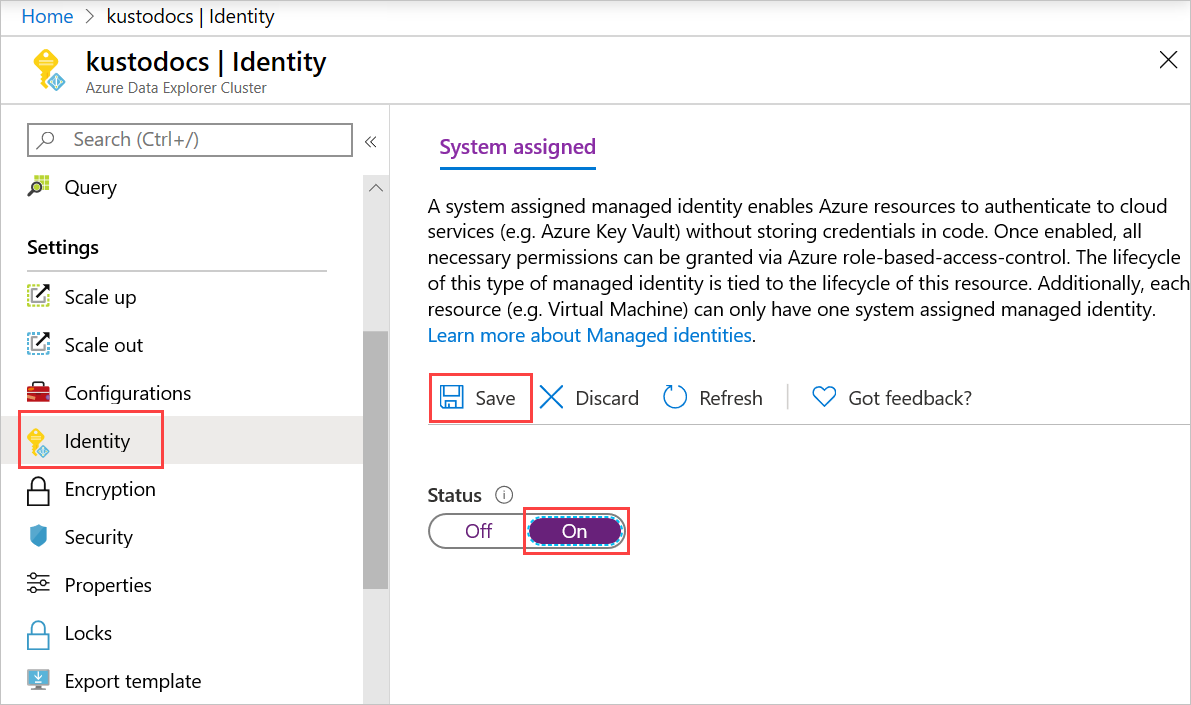
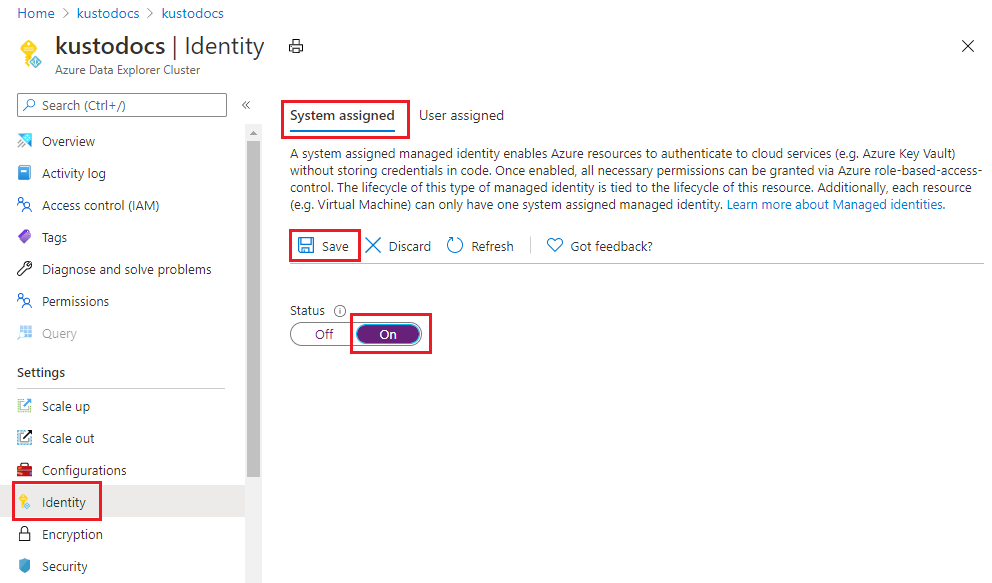
Support user assigned identities

Changed region(s): [[0.0, 0.0, 1.0, 1.0], [0.9688, 0.0617, 1.0, 0.0926]]

diff --git a/data-explorer/managed-identities.md b/data-explorer/managed-identities.md
@@ -11,14 +11,14 @@ ms.date: 03/12/2020
 
 # Configure managed identities for your Azure Data Explorer cluster
 
-A [managed identity from Azure Active Directory](/azure/active-directory/managed-identities-azure-resources/overview) allows your cluster to easily access other AAD-protected resources such as Azure Key Vault. The identity is managed by the Azure platform and doesn't require you to provision or rotate any secrets. This article shows you how to create a managed identity for Azure Data Explorer clusters. Managed identity configuration is currently supported only to [enable customer-managed keys for your cluster](security.md#customer-managed-keys-with-azure-key-vault).
+A [managed identity from Azure Active Directory](/azure/active-directory/managed-identities-azure-resources/overview) allows your cluster to easily access other Azure AD-protected resources such as Azure Key Vault. The identity is managed by the Azure platform and doesn't require you to provision or rotate any secrets. This article shows you how to create a managed identity for Azure Data Explorer clusters. Managed identity configuration is currently supported only to [enable customer-managed keys for your cluster](security.md#customer-managed-keys-with-azure-key-vault).
 
 > [!Note]
 > Managed identities for Azure Data Explorer won't behave as expected if your Azure Data Explorer cluster is migrated across subscriptions or tenants. The app will need to obtain a new identity, which can be done by [disabling](#disable-a-system-assigned-identity) and [re-enabling](#add-a-system-assigned-identity) the feature. Access policies of downstream resources will also need to be updated to use the new identity.
 
 ## Add a system-assigned identity
-                                                                                                    
-Assign a system-assigned identity that is tied to your cluster, and is deleted if your cluster is deleted. A cluster can only have one system-assigned identity. Creating a cluster with a system-assigned identity requires an additional property to be set on the cluster. The system-assigned identity is added using C#, ARM templates, or the Azure portal as detailed below.
+
+Assign a system-assigned identity that is tied to your cluster, and is deleted if your cluster is deleted. A cluster can only have one system-assigned identity. Creating a cluster with a system-assigned identity requires an additional property to be set on the cluster. The system-assigned identity is added using C#, Resource Manager template, or the Azure portal as detailed below.
 
 # [Azure portal](#tab/portal)
 
@@ -30,7 +30,7 @@ Assign a system-assigned identity that is tied to your cluster, and is deleted i
 
 1. [Create an Azure Data Explorer cluster](create-cluster-database-portal.md#create-a-cluster) 
 1. In the **Security** tab > **System assigned identity**, select **On**. To remove the system assigned identity, select **Off**.
-2. Select **Next:Tags>** or **Review + create** to create the cluster.
+1. Select **Next : Tags>** or **Review + create** to create the cluster.
 
     ![Add system assigned identity to new cluster](media/managed-identities/system-assigned-identity-new-cluster.png)
 
@@ -45,9 +45,10 @@ Assign a system-assigned identity that is tied to your cluster, and is deleted i
 
     ![Add system assigned identity](media/managed-identities/turn-system-assigned-identity-on.png)
 
-1. After a few minutes, the screen shows: 
-  * **Object ID** - used for customer managed keys 
-  * **Role assignments** - click link to assign relevant roles
+1. After a few minutes, the screen shows:
+
+* **Object ID** - used for customer-managed keys
+* **Role assignments** - click link to assign relevant roles
 
     ![System assigned identity on](media/managed-identities/system-assigned-identity-on.png)
 
@@ -75,14 +76,14 @@ To set up a managed identity using the Azure Data Explorer C# client:
     var authenticationContext = new AuthenticationContext($"https://login.windows.net/{tenantId}");
     var credential = new ClientCredential(clientId, clientSecret);
     var result = await authenticationContext.AcquireTokenAsync(resource: "https://management.core.windows.net/", clientCredential: credential);
-    
+
     var credentials = new TokenCredentials(result.AccessToken, result.AccessTokenType);
-    
+
     var kustoManagementClient = new KustoManagementClient(credentials)
     {
         SubscriptionId = subscriptionId
     };
-                                                                                                    
+
     var resourceGroupName = "testrg";
     var clusterName = "mykustocluster";
     var location = "Central US";
@@ -94,7 +95,7 @@ To set up a managed identity using the Azure Data Explorer C# client:
     var cluster = new Cluster(location, sku, identity: identity);
     await kustoManagementClient.Clusters.CreateOrUpdateAsync(resourceGroupName, clusterName, cluster);
     ```
-    
+
 2. Run the following command to check if your cluster was successfully created or updated with an identity:
 
     ```csharp
@@ -108,21 +109,24 @@ To set up a managed identity using the Azure Data Explorer C# client:
     var tenantId = cluster.Identity.TenantId;
     ```
 
-`PrincipalId` and `TenantId` are replaced with GUIDs. The `TenantId` property identifies the AAD tenant to which the identity belongs. The `PrincipalId` is a unique identifier for the cluster's new identity. Within AAD, the service principal has the same name that you gave to your App Service or Azure Functions instance.
+`PrincipalId` and `TenantId` are replaced with GUIDs. The `TenantId` property identifies the Azure AD tenant to which the identity belongs. The `PrincipalId` is a unique identifier for the cluster's new identity. Within Azure AD, the service principal has the same name that you gave to your App Service or Azure Functions instance.
 
-# [ARM template](#tab/arm)
+# [Resource Manager template](#tab/arm)
 
 ### Add a system-assigned identity using an Azure Resource Manager template
 
 An Azure Resource Manager template can be used to automate deployment of your Azure resources. To learn more about deploying to Azure Data Explorer, see [Create an Azure Data Explorer cluster and database by using an Azure Resource Manager template](create-cluster-database-resource-manager.md).
 
-Adding the system-assigned type tells Azure to create and manage the identity for your cluster. Any resource of type `Microsoft.Kusto/clusters` can be created with an identity by including the following property in the resource definition: 
+Adding the system-assigned type tells Azure to create and manage the identity for your cluster. Any resource of type `Microsoft.Kusto/clusters` can be created with an identity by including the following property in the resource definition:
 
 ```json
 "identity": {
     "type": "SystemAssigned"
-}    
+}
 ```
+
+> [!NOTE]
+> A cluster can have both system-assigned and user-assigned identities at the same time. In this case, the `type` property would be `SystemAssigned,UserAssigned`
 
 For example:
 
@@ -155,13 +159,13 @@ When the cluster is created, it has the following additional properties:
 }
 ```
 
-`<TENANTID>` and `<PRINCIPALID>` are replaced with GUIDs. The `TenantId` property identifies the AAD tenant to which the identity belongs. The `PrincipalId` is a unique identifier for the cluster's new identity. Within AAD, the service principal has the same name that you gave to your App Service or Azure Functions instance.
+`<TENANTID>` and `<PRINCIPALID>` are replaced with GUIDs. The `TenantId` property identifies the Azure AD tenant to which the identity belongs. The `PrincipalId` is a unique identifier for the cluster's new identity. Within Azure AD, the service principal has the same name that you gave to your App Service or Azure Functions instance.
 
 ---
 
 ## Disable a system-assigned identity
 
-Removing a system-assigned identity will also delete it from AAD. System-assigned identities are also automatically removed from AAD when the cluster resource is deleted. A system-assigned identity can be removed by disabling the feature.  The system-assigned identity is removed using C#, ARM templates, or the Azure portal as detailed below.
+Removing a system-assigned identity will also delete it from Azure AD. System-assigned identities are also automatically removed from Azure AD when the cluster resource is deleted. A system-assigned identity can be removed by disabling the feature.  The system-assigned identity is removed using C#, Resource Manager template, or the Azure portal as detailed below.
 
 # [Azure portal](#tab/portal)
 
@@ -188,7 +192,7 @@ var cluster = new Cluster(location, sku, identity: identity);
 await kustoManagementClient.Clusters.CreateOrUpdateAsync(resourceGroupName, clusterName, cluster);
 ```
 
-# [ARM template](#tab/arm)
+# [Resource Manager template](#tab/arm)
 
 ### Remove a system-assigned identity using an Azure Resource Manager template
 
@@ -200,11 +204,216 @@ Run the following to remove the system-assigned identity:
 }
 ```
 
+> [!NOTE]
+> If the cluster had both system-assigned and user-assigned identities at the same time, the `type` property would be `UserAssigned`
+
+---
+
+## Add a user-assigned identity
+
+Assign a user-assigned identity that is in an existing identity in Azure AD. A cluster can have more than one user-assigned identity. Creating a cluster with a user-assigned identity requires an additional property to be set on the cluster. The user-assigned identity is added using C#, Resource Manager template, or the Azure portal as detailed below.
+
+# [Azure portal](#tab/portal)
+
+### Add a user-assigned identity using the Azure portal
+
+1. Sign in to the [Azure portal](https://portal.azure.com/).
+
+#### Existing Azure Data Explorer cluster
+
+First, you'll need to create a user-assigned identity resource.
+
+1. Create a user-assigned managed identity resource according to [these instructions](/azure/active-directory/managed-identities-azure-resources/how-to-manage-ua-identity-portal.md#create-a-user-assigned-managed-identity).
+1. Open an existing Azure Data Explorer cluster.
+1. Select **Settings** > **Identity** in left pane of portal.
+1. Within the **User assigned** tab. Click **Add**.
+1. Search for the identity you created earlier and select it. Click **Add**.
+
+    ![Add user assigned identity](media/managed-identities/user-assigned-identity-select.png)
+
+# [C#](#tab/c-sharp)
+
+### Add a user-assigned identity using C#
+
+#### Prerequisites
+
+To set up a managed identity using the Azure Data Explorer C# client:
+
+* Install the [Azure Data Explorer (Kusto) NuGet package](https://www.nuget.org/packages/Microsoft.Azure.Management.Kusto/).
+* Install the [Microsoft.IdentityModel.Clients.ActiveDirectory NuGet package](https://www.nuget.org/packages/Microsoft.IdentityModel.Clients.ActiveDirectory/) for authentication.
+* [Create an Azure AD application](/azure/active-directory/develop/howto-create-service-principal-portal) and service principal that can access resources. You add role assignment at the subscription scope and get the required `Directory (tenant) ID`, `Application ID`, and `Client Secret`.
+
+#### Create or update your cluster
+
+1. Create or update your cluster using the `Identity` property:
+
+    ```csharp
+    var tenantId = "xxxxxxxx-xxxxx-xxxx-xxxx-xxxxxxxxx";//Directory (tenant) ID
+    var clientId = "xxxxxxxx-xxxxx-xxxx-xxxx-xxxxxxxxx";//Application ID
+    var clientSecret = "xxxxxxxxxxxxxx";//Client Secret
+    var subscriptionId = "xxxxxxxx-xxxxx-xxxx-xxxx-xxxxxxxxx";
+    var authenticationContext = new AuthenticationContext($"https://login.windows.net/{tenantId}");
+    var credential = new ClientCredential(clientId, clientSecret);
+    var result = await authenticationContext.AcquireTokenAsync(resource: "https://management.core.windows.net/", clientCredential: credential);
+
+    var credentials = new TokenCredentials(result.AccessToken, result.AccessTokenType);
+
+    var kustoManagementClient = new KustoManagementClient(credentials)
+    {
+        SubscriptionId = subscriptionId
+    };
+
+    var resourceGroupName = "testrg";
+    var clusterName = "mykustocluster";
+    var location = "Central US";
+    var skuName = "Standard_D13_v2";
+    var tier = "Standard";
+    var capacity = 5;
+    var sku = new AzureSku(skuName, tier, capacity);
+    var identityName = "myIdentity";
+    var userIdentityResourceId = $"/subscriptions/{subscriptionId}/resourceGroups/{resourceGroupName}/providers/Microsoft.ManagedIdentity/userAssignedIdentities/{identityName}";
+    var userAssignedIdentities = new Dictionary<string, IdentityUserAssignedIdentitiesValue>(1) { { userIdentityResourceId, new IdentityUserAssignedIdentitiesValue() } };
+    var identity = new Identity(type: IdentityType.UserAssigned, userAssignedIdentities: userAssignedIdentities);
+    var cluster = new Cluster(location, sku, identity: identity);
+    await kustoManagementClient.Clusters.CreateOrUpdateAsync(resourceGroupName, clusterName, cluster);
+    ```
+
+2. Run the following command to check if your cluster was successfully created or updated with an identity:
+
+    ```csharp
+    kustoManagementClient.Clusters.Get(resourceGroupName, clusterName);
+    ```
+
+    If the result contains `ProvisioningState` with the `Succeeded` value, then the cluster was created or updated, and should have the following properties:
+
+    ```csharp
+    var userIdentity = cluster.Identity.UserAssignedIdentities[userIdentityResourceId];
+    var principalId = userIdentity.PrincipalId;
+    var clientId = userIdentity.ClientId;
+    ```
+
+The `PrincipalId` is a unique identifier for the identity that's used for Azure AD administration. The `ClientId` is a unique identifier for the application's new identity that's used for specifying which identity to use during runtime calls.
+
+# [Resource Manager template](#tab/arm)
+
+### Add a user-assigned identity using an Azure Resource Manager template
+
+An Azure Resource Manager template can be used to automate deployment of your Azure resources. To learn more about deploying to Azure Data Explorer, see [Create an Azure Data Explorer cluster and database by using an Azure Resource Manager template](create-cluster-database-resource-manager.md).
+
+Any resource of type `Microsoft.Kusto/clusters` can be created with a user-assigned identity by including the following property in the resource definition, replacing `<RESOURCEID>` with the resource ID of the desired identity:
+
+```json
+"identity": {
+    "type": "UserAssigned",
+    "userAssignedIdentities": {
+        "<RESOURCEID>": {}
+    }
+}
+```
+
+For example:
+
+```json
+{
+    "apiVersion": "2019-09-07",
+    "type": "Microsoft.Kusto/clusters",
+    "name": "[variables('clusterName')]",
+    "location": "[resourceGroup().location]",
+    "identity": {
+        "type": "UserAssigned",
+        "userAssignedIdentities": {
+            "[resourceId('Microsoft.ManagedIdentity/userAssignedIdentities', variables('identityName'))]": {}
+        }
+    },
+    "properties": {
+        "trustedExternalTenants": [],
+        "virtualNetworkConfiguration": null,
+        "optimizedAutoscale": null,
+        "enableDiskEncryption": false,
+        "enableStreamingIngest": false,
+    },
+    "dependsOn": [
+        "[resourceId('Microsoft.ManagedIdentity/userAssignedIdentities', variables('identityName'))]"
+    ]
+}
+```
+
+When the cluster is created, it has the following additional properties:
+
+```json
+"identity": {
+    "type": "UserAssigned",
+    "userAssignedIdentities": {
+        "<RESOURCEID>": {
+            "principalId": "<PRINCIPALID>",
+            "clientId": "<CLIENTID>"
+        }
+    }
+}
+```
+
+The `PrincipalId` is a unique identifier for the identity that's used for Azure AD administration. The `ClientId` is a unique identifier for the application's new identity that's used for specifying which identity to use during runtime calls.
+
+> [!NOTE]
+> A cluster can have both system-assigned and user-assigned identities at the same time. In this case, the `type` property would be `SystemAssigned,UserAssigned`.
+
+---
+
+## Remove a user-assigned managed identity from a cluster
+
+The user-assigned identity is removed using C#, Resource Manager template, or the Azure portal as detailed below.
+
+# [Azure portal](#tab/portal)
+
+### Remove a user-assigned managed identity from a cluster using the Azure portal
+
+1. Sign in to the [Azure portal](https://portal.azure.com/).
+1. Select **Settings** > **Identity** in left pane of portal.
+1. Select the **User assigned** tab.
+1. Search for the identity you created earlier and select it. Click **Remove**.
+
+    1. In the pop-up window, select **Yes** to remove the user-assigned identity. The **Identity** pane reverts to same condition as before the addition of the user-assigned identity.
+
+    ![Remove user assigned identity](media/managed-identities/user-assigned-identity-remove.png)
+
+# [C#](#tab/c-sharp)
+
+### Remove a user-assigned identity using C#
+
+Run the following to remove the user-assigned identity:
+
+```csharp
+var identityName = "myIdentity";
+var userIdentityResourceId = $"/subscriptions/{subscriptionId}/resourceGroups/{resourceGroupName}/providers/Microsoft.ManagedIdentity/userAssignedIdentities/{identityName}";
+var userAssignedIdentities = new Dictionary<string, IdentityUserAssignedIdentitiesValue>(1) { { userIdentityResourceId, null } };
+var identity = new Identity(type: IdentityType.UserAssigned, userAssignedIdentities: userAssignedIdentities);
+var cluster = new Cluster(location, sku, identity: identity);
+await kustoManagementClient.Clusters.CreateOrUpdateAsync(resourceGroupName, clusterName, cluster);
+```
+
+# [Resource Manager template](#tab/arm)
+
+### Remove a user-assigned identity using an Azure Resource Manager template
+
+Run the following to remove the user-assigned identity:
+
+```json
+"identity": {
+    "type": "UserAssigned",
+    "userAssignedIdentities": {
+        "<RESOURCEID>": null
+    }
+}
+```
+
+> [!NOTE]
+> If the cluster had both system-assigned and user-assigned identities at the same time, the `type` property would be `SystemAssigned,UserAssigned`
+
 ---
 
 ## Next steps
 
 * [Secure Azure Data Explorer clusters in Azure](security.md)
 * [Secure your cluster using Disk Encryption in Azure Data Explorer - Azure portal](cluster-disk-encryption.md) by enabling encryption at rest.
- * [Configure customer-managed-keys using C#](customer-managed-keys-csharp.md)
- * [Configure customer-managed-keys using the Azure Resource Manager template](customer-managed-keys-resource-manager.md)
+* [Configure customer-managed-keys using C#](customer-managed-keys-csharp.md)
+* [Configure customer-managed-keys using the Azure Resource Manager template](customer-managed-keys-resource-manager.md)
